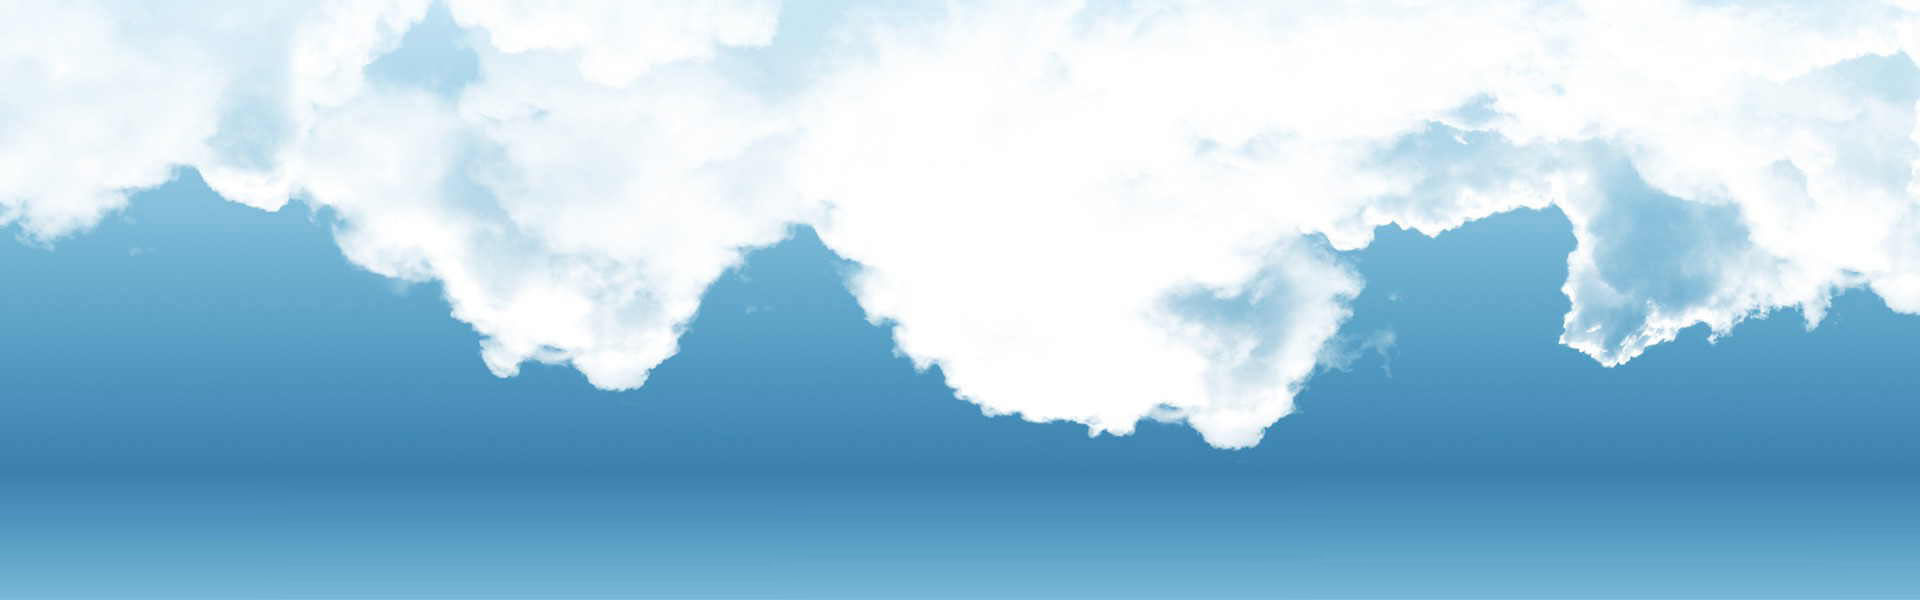
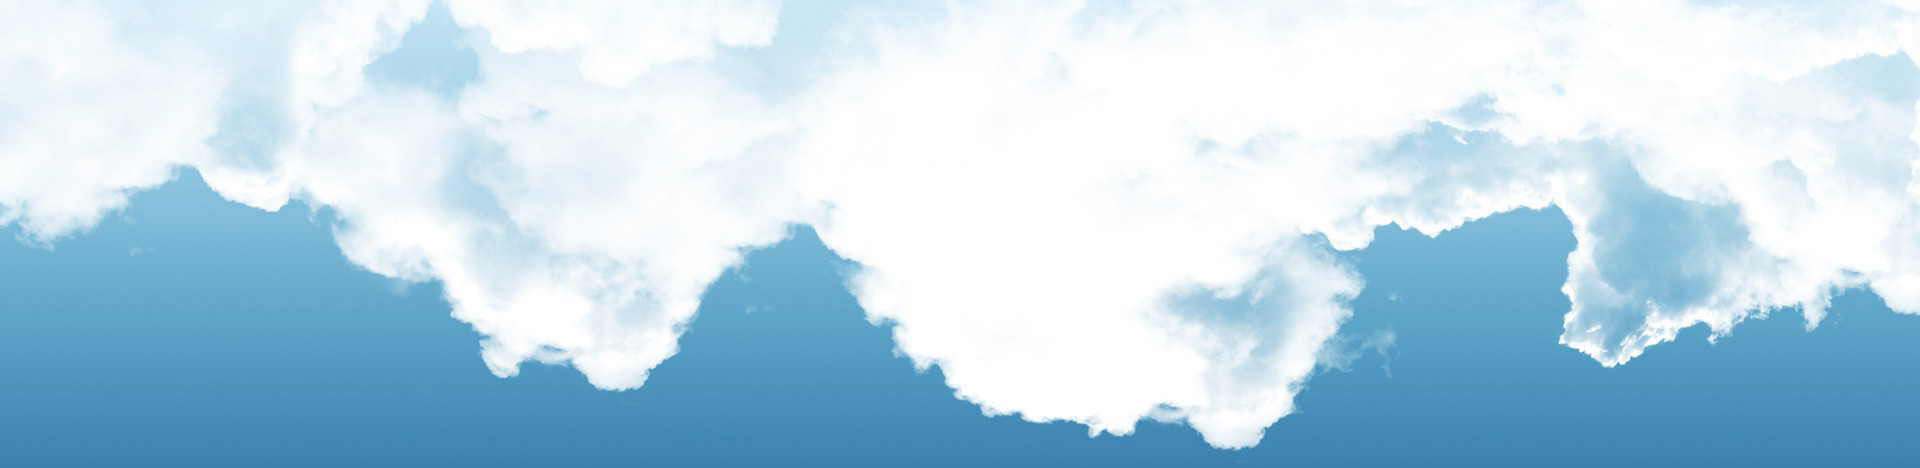
refined css and backgroud

diff --git a/www/App/Tpl/Home/Index/index.html b/www/App/Tpl/Home/Index/index.html
@@ -29,51 +29,45 @@
     <![endif]-->
 </head>
 
-<body>
-    <div class="container" style="width:60%;">
+<body style="background:url(__PUBLIC__/image/bg_3.jpg) no-repeat;  background-color:#3D80AD;">
+    <div class="container" style="width:65%;">
         <div class="panel panel-primary" id="login-panel">
-            <div class="panel-heading">
-                <h3 class="panel-title"></h3>
-            </div>
+            <div class="panel-heading"></div>
             <div class="panel-body" style="">
-
                 <form class="form-signin" role="form" action="{:U('Home/Index/login/')}" method="post" id="login">
                     <div class="blank-div"></div>
                     <h2 class="form-signin-heading">危险废物管理信息系统</h2>
+                    <div class="blank-div"></div>                   
                     <div class="blank-div"></div>
-
-                    <input type="username" name="username" class="form-control" placeholder="用户名" required="" autofocus="" />
-                    <input type="password" name="password" class="form-control" placeholder="密码" required="" />
-
-                    <div class="blank-div"></div>
+                    <input id ="usernam" type="username" name="username" class="form-control" placeholder="用户名" required="" autofocus="" />                  
+                   
+                    <input type="password" name="password" class="form-control" placeholder="密码" required="" />                   
                     <div class="row">
-                        <div class="col-xs-6">
+                        <div class="col-xs-7">
                             <input type="code" name="code" class="form-control" placeholder="验证码" required="" />
                         </div>
                         <div class="col-xs-2">
                             <img src="{:U('Home/Index/verify/')}" id="code" />
                         </div>
-                        <div class="col-xs-4">
+                        <div class="col-xs-3">
                             <a href="javascript:void(change_code());">看不清</a>
                         </div>
                     </div>
                     <!-- <label class="checkbox">
                 <input type="checkbox" value="remember-me">记住密码
             </label> -->
-                    <div class="blank-div"></div>
-                    <button class="btn btn-lg btn-primary btn-block" type="submit" id="login">登录</button>
-
-                    <button class="btn btn-lg btn-default btn-block" type="button" id="register">注册</button>
-
+                    <div class="blank-div"></div>                    
+                    <button class="btn btn-lg btn-primary btn-block" type="submit" id="login">登 录</button> 
+                    <button class="btn btn-lg btn-default btn-block" type="button" id="register">注 册</button>
                 </form>
 
                 <footer class="bs-footer" role="contentinfo">
                     <div class="text-center padder clearfix">
                         <div class="blank-div"></div>
-                        <p>
-                            <small>&copy; 2014, 安庆市环境保护局&nbsp;&nbsp;&nbsp;&nbsp;版权所有.
-                            </small>
-                        </p>
+                        <div class="blank-div"></div>
+                        Copyright © 2014-2015 <br/>
+                        <span class="glyphicon glyphicon-send"></span>
+                        <b>SJTU OMNILab</b>
                     </div>
 
                 </footer>
@@ -81,7 +75,6 @@
         </div>
     </div>
     <!-- /container -->
-
 
     <!-- Placed at the end of the document so the pages load faster -->
     <!-- jQuery core JavaScript -->

diff --git a/www/App/Tpl/Home/Common/sidebar_generator.html b/www/App/Tpl/Home/Common/sidebar_generator.html
@@ -32,7 +32,7 @@ function sidebar_generator() {
                     + tmpid 
                     + '"><a onclick="refresh_sidebar(\'' 
                     + tmpid 
-                    + '\'); do_ajax(\'' 
+                    + '\'); fetch_page(\'' 
                     + DWMS_sidebar_config.sidebar_groups[grp_idx].sidebar_group_content[itm_idx].url 
                     + '\')"><span class="glyphicon glyphicon-file"></span> ' 
                     + DWMS_sidebar_config.sidebar_groups[grp_idx].sidebar_group_content[itm_idx].name 
@@ -49,7 +49,7 @@ function sidebar_generator() {
 sidebar_generator();
 
 
-function do_ajax(ajaxURL) {
+function fetch_page(ajaxURL) {
     $("#content_page").html('<center style="margin-top:100px"><h4>努力地加载中...</h4><div class="progress progress-striped active" style="width: 50%"><div class="progress-bar"  role="progressbar" aria-valuenow="100" aria-valuemin="0" aria-valuemax="100" style="width: 100%"></div></div></center>');
 
 

diff --git a/www/App/Tpl/Home/Common/footer.html b/www/App/Tpl/Home/Common/footer.html
@@ -4,8 +4,8 @@
 <div class="panel panel-info">
     <div class="panel-heading"></div>
     <div class="panel panel-body" style="text-align:center;margin-bottom:0px">
-    	<b>危险废物管理信息系统 DWMS</b>
-        <p>Copyright © 2014-2015 SJTU OMNILab<br/>Powered By ThinkPHP</p>
+    	<b>危险废物管理信息系统 DWMS</b> Powered By ThinkPHP
+        <br/>Copyright © 2014-2015<br/> <span class="glyphicon glyphicon-send"></span> SJTU OMNILab
     </div>
 </div>
 

diff --git a/www/App/Tpl/Home/Common/frame.html b/www/App/Tpl/Home/Common/frame.html
@@ -18,7 +18,7 @@
     <link href="__PUBLIC__/css/color.css" rel="stylesheet"> 
 </head>
 
-<body style="background:url(__PUBLIC__/image/bg_4.jpg);">
+<body style="background:url(__PUBLIC__/image/bg_4.jpg);background-position:center;background-repeat: no-repeat;background-attachment:fixed">
     <div class="container">
         <include file="Common/header" />
         <div class="panel panel-default">

diff --git a/www/Public/css/layout.css b/www/Public/css/layout.css
@@ -1,7 +1,5 @@
 body {    
-    background-position:center;    
-    background-repeat: no-repeat;
-    background-attachment:fixed
+    
 }
 #webpage_title {
     /*float:left;margin-top: 10px;*/

diff --git a/www/Public/css/signin.css b/www/Public/css/signin.css
@@ -1,5 +1,7 @@
 body {
-    background-color: #EEE;
+   
+    background-color:#78B7D8;
+    
 }
 #login-panel {
     margin-top:15%;
